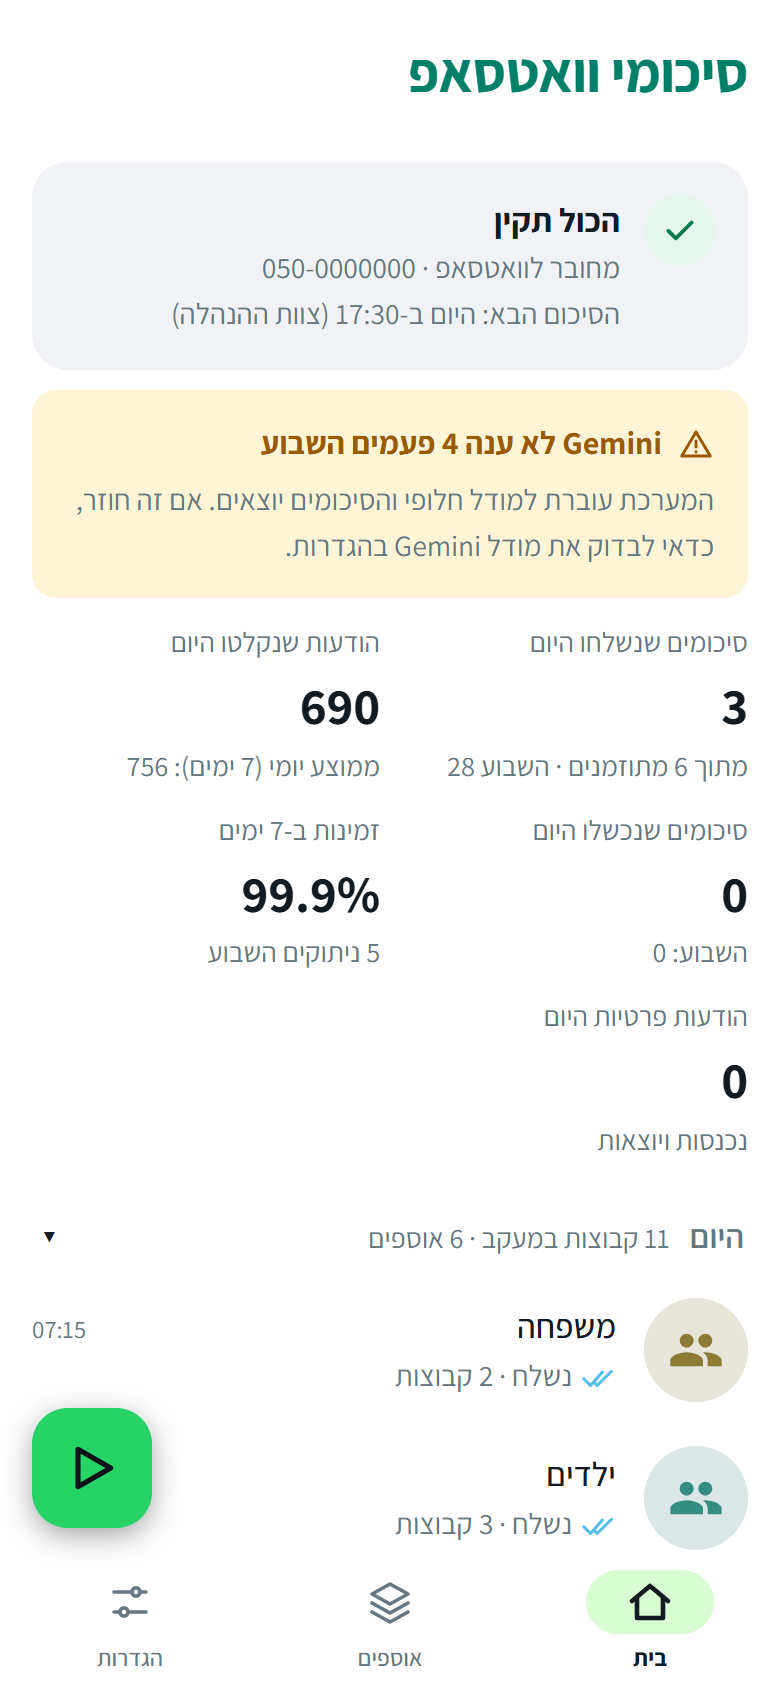
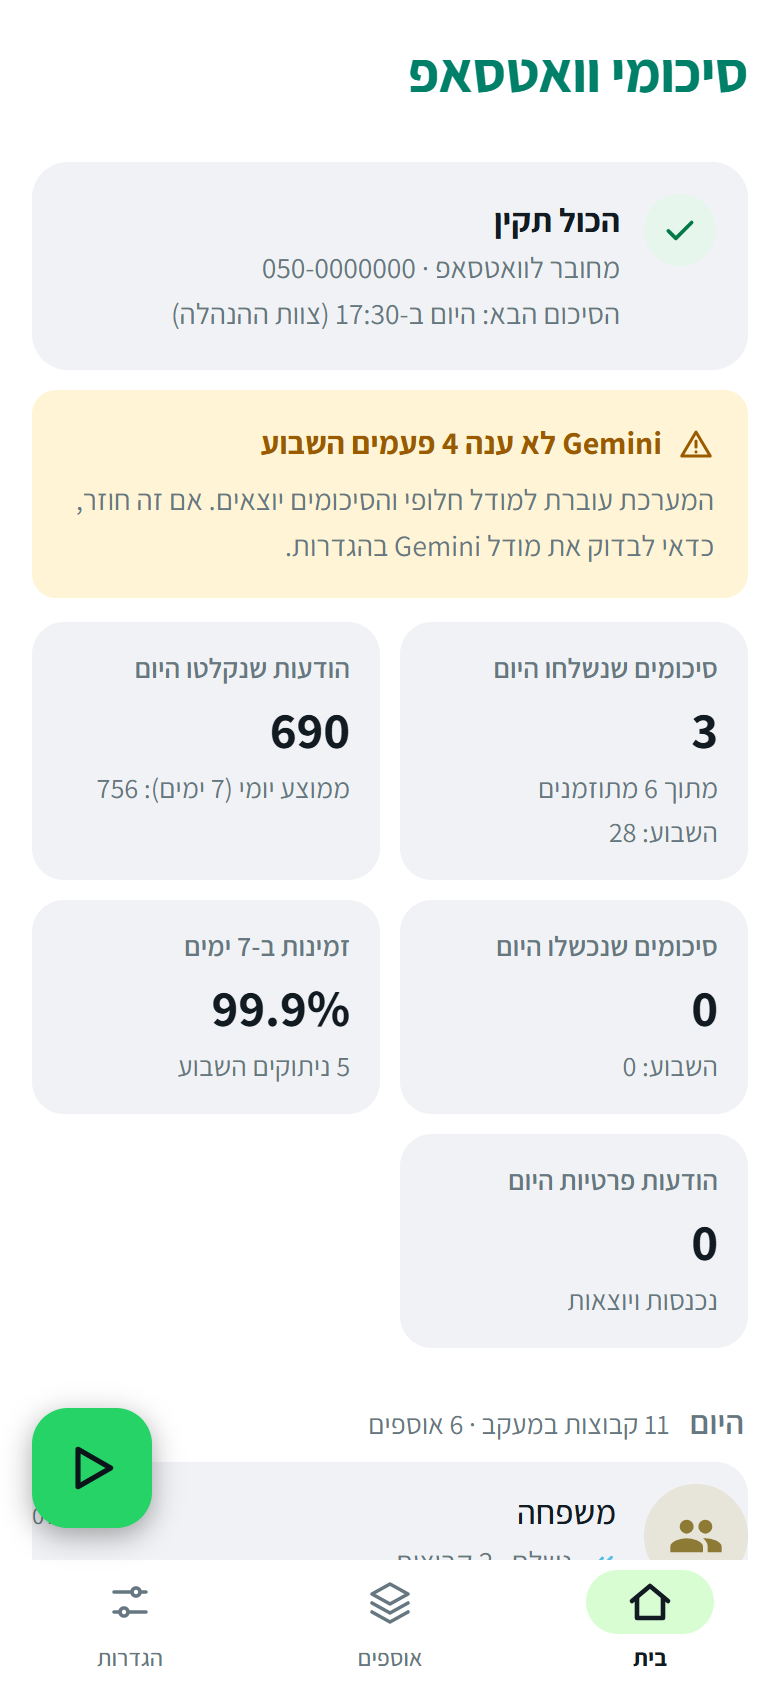
Dashboard: each user sees only their own account; key numbers as cards; thousands separators
- /api/dashboard and /api/device are scoped to one account: the signed-in one by default; a manager can pick
  another account explicitly (?account=), anyone else is always held to their own
- The device card lists only that account's WhatsApp link and drops
- Key numbers are cards (label, value and note together); sections on a card background
- Thousands separators on counts (1,234)
- README and screenshots updated

diff --git a/public/index.html b/public/index.html
@@ -282,7 +282,10 @@
   .kpi-v { font-size: 1.6rem; font-weight: 700; }
   .dash { display: grid; grid-template-columns: minmax(0, 1fr); gap: 14px; }
   .dash > * { min-width: 0; }
-  .kpi { min-width: 0; overflow-wrap: anywhere; }
+  .kpi { min-width: 0; overflow-wrap: anywhere; background: var(--surface-2); border: 1.5px solid transparent; border-radius: 16px; padding: 12px 14px; display: flex; flex-direction: column; gap: 2px; }
+  .kpi > .hint:first-child { font-weight: 600; }
+  .kpi-v { line-height: 1.15; margin: 2px 0; }
+  .dash .fold > .card { background: var(--surface-2); border-radius: 16px; }
   .fold { margin-top: 18px; }
   .fold > summary { list-style: none; cursor: pointer; display: flex; align-items: baseline; gap: 10px; padding: 6px 2px; user-select: none; }
   .fold > summary::-webkit-details-marker { display: none; }
@@ -504,6 +507,8 @@
   /* ---------- helpers ---------- */
   const acc = () => state && state.accounts && state.accounts[cur];
   const num = s => `<span class="num">${esc(s)}</span>`;
+  // thousands separators for counts (1,234)
+  const thou = n => (typeof n === 'number' && isFinite(n) ? n.toLocaleString('en-US') : n);
   const phone = id => { const d = String(id || '').split(':')[0].split('@')[0]; return d.startsWith('972') ? '0' + d.slice(3).replace(/^(\d{2})(\d{7})$/, '$1-$2') : d; };
   const hhmm = ts => new Date(ts).toLocaleTimeString('he-IL', { hour: '2-digit', minute: '2-digit', hour12: false });
   const dayStart = (d = new Date()) => new Date(d.getFullYear(), d.getMonth(), d.getDate()).getTime();
@@ -718,9 +723,9 @@
       const s = stateLine(h.status);
       const nm = h.label.replace(/^אוסף: /, '');
       const detail = h.status === 'sent' && h.text ? `<div class="sum-body">${fmt(h.text)}</div>`
-        : `<div class="sum-body muted">${h.status === 'failed' ? esc(h.error || '') : h.status === 'skipped' ? `נבדקו ${h.messages || 0} הודעות ב-${h.groups || 0} קבוצות ולא אותרו עדכונים מהותיים או דחופים.` : 'לא התקבלו הודעות חדשות בקבוצות אלו, ולכן לא הופק סיכום.'}</div>`;
+        : `<div class="sum-body muted">${h.status === 'failed' ? esc(h.error || '') : h.status === 'skipped' ? `נבדקו ${thou(h.messages || 0)} הודעות ב-${h.groups || 0} קבוצות ולא אותרו עדכונים מהותיים או דחופים.` : 'לא התקבלו הודעות חדשות בקבוצות אלו, ולכן לא הופק סיכום.'}</div>`;
       return `<details class="h"><summary class="chat">${avatar(nm)}<div class="grow"><div class="t1"><span class="nm1">${esc(nm)}</span><span class="tm">${esc(whenLabel(h.ts))}</span></div>
-        <div class="pv ${s.cls}">${s.pre}<span>${esc(s.txt)}${h.messages ? ` · ${h.messages} הודעות` : ''}</span></div></div></summary>${detail}</details>`;
+        <div class="pv ${s.cls}">${s.pre}<span>${esc(s.txt)}${h.messages ? ` · ${thou(h.messages)} הודעות` : ''}</span></div></div></summary>${detail}</details>`;
     }).join('') : '<div class="empty">עדיין אין היסטוריה</div>';
     $('#moreHistory').hidden = hist.length <= histLimit;
 
@@ -837,7 +842,7 @@
     return v >= bad ? 'bad' : v >= warn ? 'warn' : 'ok';
   }
   function kpi(label, value, sub) {
-    return `<div class="card kpi"><div class="hint">${esc(label)}</div><div class="kpi-v">${value}</div>${sub ? `<div class="hint">${sub}</div>` : ''}</div>`;
+    return `<div class="card kpi"><div class="hint">${esc(label)}</div><div class="kpi-v">${thou(value)}</div>${sub ? `<div class="hint">${sub}</div>` : ''}</div>`;
   }
   function bars(vals, days, color, label) {
     const max = Math.max(1, ...vals);
@@ -846,11 +851,11 @@
       const bh = Math.round(v / max * (h - 6));
       return `<rect x="${(i * bw + 2).toFixed(1)}" y="${h - bh}" width="${(bw - 4).toFixed(1)}" height="${bh}" rx="2" fill="${color}"><title>${esc(days[i])}: ${v}</title></rect>`;
     }).join('');
-    return `<div class="hint">${esc(label)} (מקסימום ${max})</div><svg viewBox="0 0 ${w} ${h}" preserveAspectRatio="none" style="width:100%;height:80px" role="img" aria-label="${esc(label)}">${rects}</svg>`;
+    return `<div class="hint">${esc(label)} (מקסימום ${thou(max)})</div><svg viewBox="0 0 ${w} ${h}" preserveAspectRatio="none" style="width:100%;height:80px" role="img" aria-label="${esc(label)}">${rects}</svg>`;
   }
   const STAT_TXT = { sent: 'נשלח', queued: 'ממתין לשליחה', failed: 'נכשל', empty: 'ללא הודעות חדשות', skipped: 'ללא עדכונים דחופים' };
   async function loadDashboard() {
-    const [d, dev] = await Promise.all([api('/api/dashboard'), api('/api/device')]);
+    const [d, dev] = await Promise.all([api(`/api/dashboard?account=${encodeURIComponent(cur || '')}`), api(`/api/device?account=${encodeURIComponent(cur || '')}`)]);
     if (d.error) { $('#dashKpi').innerHTML = `<div class="empty">${esc(d.error)}</div>`; return; }
     renderDashboard(d);
     if (!dev.error) renderDeviceStrip({ ...dev.now, events: dev.events, spark: dev.spark });
@@ -889,10 +894,10 @@
     const warn = c => ` style="border-color:var(--${c}, ${c === 'bad' ? '#c62828' : '#b26a00'})"`;
     const kp = (extra, html) => html.replace('class="card kpi"', 'class="card kpi"' + extra);
     $('#dashKpi').innerHTML = [
-      kpi('סיכומים שנשלחו היום', t.sent.today, `מתוך ${sched} מתוזמנים · השבוע ${t.sent.week}`),
-      kpi('הודעות שנקלטו היום', t.collected.today, `ממוצע יומי (7 ימים): ${avg7}`),
-      kp(t.failed.today > 0 ? warn('bad') : '', kpi('סיכומים שנכשלו היום', t.failed.today, `השבוע: ${t.failed.week}`)),
-      kp(upAvg != null && upAvg < 95 ? warn('warn') : '', kpi('זמינות ב-7 ימים', upAvg == null ? '—' : `${upAvg}%`, upAvg == null ? 'מתחילה להימדד' : `${drops7} ניתוקים השבוע`)),
+      kpi('סיכומים שנשלחו היום', t.sent.today, `מתוך ${sched} מתוזמנים<br>השבוע: ${thou(t.sent.week)}`),
+      kpi('הודעות שנקלטו היום', t.collected.today, `ממוצע יומי (7 ימים): ${thou(avg7)}`),
+      kp(t.failed.today > 0 ? warn('bad') : '', kpi('סיכומים שנכשלו היום', t.failed.today, `השבוע: ${thou(t.failed.week)}`)),
+      kp(upAvg != null && upAvg < 95 ? warn('warn') : '', kpi('זמינות ב-7 ימים', upAvg == null ? '—' : `${upAvg}%`, upAvg == null ? 'מתחילה להימדד' : `${thou(drops7)} ניתוקים השבוע`)),
       hasPeople ? kpi('הודעות פרטיות היום', dm, 'נכנסות ויוצאות') : '',
     ].join('');
 
@@ -908,7 +913,7 @@
     const total = hours.reduce((a, b) => a + b, 0);
     if (total) {
       const peak = hours.indexOf(Math.max(...hours));
-      $('#dashHours').innerHTML = hoursChart(hours) + `<div class="hint" style="margin-top:6px">השעה העמוסה ביותר: <b>${HR(peak)}</b> · ${total} הודעות ב-7 הימים האחרונים.</div>`;
+      $('#dashHours').innerHTML = hoursChart(hours) + `<div class="hint" style="margin-top:6px">השעה העמוסה ביותר: <b>${HR(peak)}</b> · ${thou(total)} הודעות ב-7 הימים האחרונים.</div>`;
     } else $('#dashHours').innerHTML = '<div class="empty">עוד אין מספיק הודעות</div>';
 
     // result per collection
@@ -916,15 +921,15 @@
     const colRows = accs.flatMap(x => x.collections.map(c => {
       const s = x.colStats[c.id] || { runs: 0 };
       const line = s.runs
-        ? `${s.runs} ריצות · ${s.sent} נשלחו${s.quietPct ? ` · ${s.quietPct}% ללא עדכון חשוב` : ''}${s.failed ? ` · ${s.failed} נכשלו` : ''}`
+        ? `${thou(s.runs)} ריצות · ${thou(s.sent)} נשלחו${s.quietPct ? ` · ${s.quietPct}% ללא עדכון חשוב` : ''}${s.failed ? ` · ${s.failed} נכשלו` : ''}`
         : 'עוד לא רץ';
-      const last = s.runs ? `הריצה האחרונה: ${esc(stTxt[s.lastStatus] || s.lastStatus)}${s.lastMessages ? ` · ${s.lastMessages} הודעות` : ''}${s.lastBullets ? ` ← ${s.lastBullets} נקודות` : ''}` : '';
+      const last = s.runs ? `הריצה האחרונה: ${esc(stTxt[s.lastStatus] || s.lastStatus)}${s.lastMessages ? ` · ${thou(s.lastMessages)} הודעות` : ''}${s.lastBullets ? ` ← ${s.lastBullets} נקודות` : ''}` : '';
       return `<div class="dline"><b>${esc(c.name)}</b>${many ? ` <span class="hint">· ${esc(x.name)}</span>` : ''}${c.enabled ? '' : ' <span class="hint">(מושהה)</span>'}<div class="hint">${esc(line)}</div>${last ? `<div class="hint">${last}</div>` : ''}</div>`;
     }));
     $('#dashCols').innerHTML = colRows.length ? colRows.join('') : '<div class="empty">עדיין אין אוספים</div>';
 
     // private chats of people collections
-    const peopleRows = accs.flatMap(x => x.people.map(p => `<div class="dline"><b>${esc(p.name)}</b>${many ? ` <span class="hint">· ${esc(x.name)}</span>` : ''}${p.contacts.map(c => `<div class="hint">${esc(c.name)}: ${c.in} נכנסות · ${c.out} יוצאות</div>`).join('')}</div>`));
+    const peopleRows = accs.flatMap(x => x.people.map(p => `<div class="dline"><b>${esc(p.name)}</b>${many ? ` <span class="hint">· ${esc(x.name)}</span>` : ''}${p.contacts.map(c => `<div class="hint">${esc(c.name)}: ${thou(c.in)} נכנסות · ${thou(c.out)} יוצאות</div>`).join('')}</div>`));
     $('#foldPeople').hidden = !peopleRows.length;
     $('#dashPeople').innerHTML = peopleRows.join('');
 
@@ -942,7 +947,7 @@
 
     $('#dashChart').innerHTML = bars(d.series.sent, d.days, 'var(--accent, #2e7d32)', 'סיכומים שנשלחו ליום')
       + '<div style="height:12px"></div>' + bars(d.series.collected, d.days, 'var(--muted, #888)', 'הודעות שנקלטו ליום');
-    const tops = accs.flatMap(x => x.top.map(g => `<div class="pv">${many ? esc(x.name) + ' · ' : ''}${esc(g.name)} · ${g.n} הודעות</div>`));
+    const tops = accs.flatMap(x => x.top.map(g => `<div class="pv">${many ? esc(x.name) + ' · ' : ''}${esc(g.name)} · ${thou(g.n)} הודעות</div>`));
     $('#dashTop').innerHTML = tops.length ? tops.join('') : '<div class="empty">אין הודעות ב-24 השעות האחרונות</div>';
   }
   function renderDeviceStrip(n) {
@@ -1514,7 +1519,7 @@
     const t = e.target;
     if (t.matches('#ePick input')) { t.checked ? editor.selected.add(t.dataset.jid) : editor.selected.delete(t.dataset.jid); $('#eCount').textContent = editor.selected.size; }
     else if (t.id === 'extraPhone') { await api(`/api/accounts/${cur}/delivery-settings`, 'POST', { customPhone: t.value }); toast('ההגדרה נשמרה בהצלחה'); load(true); }
-    else if (t.id === 'accSel') { cur = t.value; store('cur', cur); renderAll(); }
+    else if (t.id === 'accSel') { cur = t.value; store('cur', cur); renderAll(); if (view === 'home') loadDashboard().catch(() => {}); }
     else if (t.id === 'modelSel') {
       const d = await api('/api/gemini/model', 'POST', { model: t.value });
       $('#modelRes').textContent = '';

diff --git a/server.js b/server.js
@@ -1435,13 +1435,21 @@ app.get('/api/auth/me', (req, res) => {
 // API: Device health (manager only): a fresh reading, plus the last 24 hours of samples and events.
 app.get('/api/device', async (req, res) => {
   if (!req.me.manager) return res.status(403).json({ error: 'רק למנהל' });
-  const now = { ...(await readDevice()), wa: waStatuses() };
+  const accId = dashAccountId(req);
+  const now = { ...(await readDevice()), wa: Object.fromEntries(Object.entries(waStatuses()).filter(([id]) => id === accId)) };
   const dayAgo = Date.now() - 24 * 3600 * 1000;
   const recent = deviceHistory.samples.filter(x => x.t >= dayAgo);
-  res.json({ now, spark: { tempC: downsample(recent, 'tempC'), cpuPct: downsample(recent, 'cpuPct'), memUsedPct: downsample(recent, 'memUsedPct'), wifi: downsample(recent, 'wifi') }, events: deviceHistory.events.filter(e => e.t >= dayAgo) });
+  res.json({ now, spark: { tempC: downsample(recent, 'tempC'), cpuPct: downsample(recent, 'cpuPct'), memUsedPct: downsample(recent, 'memUsedPct'), wifi: downsample(recent, 'wifi') }, events: deviceHistory.events.filter(e => e.t >= dayAgo && (!e.account || e.account === accId)) });
 });
 
-// API: Dashboard. Whole system for a manager; a plain account sees only itself.
+// API: Dashboard. Every user sees only their own account. A manager can look at another account only by choosing it
+// explicitly (?account=); the default is the account they signed in with.
+function dashAccountId(req) {
+  const want = String(req.query.account || '');
+  if (want && config.accounts[want] && (req.me.manager || want === req.me.accountId)) return want;
+  if (req.me.accountId && config.accounts[req.me.accountId]) return req.me.accountId;
+  return Object.keys(config.accounts)[0] || null;
+}
 function topGroups(accountId, since) {
   const counts = {};
   try {
@@ -1468,7 +1476,7 @@ function parsedMessages(accountId) {
   return list;
 }
 app.get('/api/dashboard', (req, res) => {
-  const ids = Object.keys(config.accounts).filter(id => req.me.manager || id === req.me.accountId);
+  const ids = [dashAccountId(req)].filter(Boolean);
   const days = lastDays(14);
   const today = dayKey();
   const dayAgo = Date.now() - 24 * 3600 * 1000;

diff --git a/README.en.md b/README.en.md
@@ -196,7 +196,7 @@ Capture starts only when the link is up and the group is monitored. Earlier mess
 - Scheduled summaries cover the **previous calendar day**; "Summarize now" covers the last 24 hours.
 - "Nothing important/urgent" is recorded in the history and nothing is sent.
 - **People collections:** "Collections", "+", "People collection": a name, an optional time, up to 10 contacts (search by name or type a number) and an optional prompt. The summary covers your **private chats** with them in the last 24 hours, in both directions, one section per person. Only chats with the people you picked are stored, and only from the moment you add them; they are kept for 2 days (group messages: 7 days), so the first summary only contains messages since then. The chat text is **sent to Gemini**, like group text. Contacts that WhatsApp identifies by an internal id (`@lid`) are stored only if WhatsApp also provides their phone number.
-- **The home dashboard**, most important first; every section folds and unfolds and the state is remembered on the device. It is built for phones. It shows the status and anything that needs attention (a disconnected account, a failed summary, queued messages, Gemini not answering); today's numbers (summaries sent out of those scheduled, messages captured against the 7-day average, failures, 7-day availability); when the groups are active (24-hour chart over the last 7 days) and the busiest groups; results per collection (runs, how often nothing important came up, messages in and bullets out for the last run); the private chats of people collections; groups worth a look (monitored groups silent for 7+ days, and unmonitored groups that wrote in the last 48 hours); 14-day trends and connection reliability (availability is counted from the minutes the account was connected, and starts accumulating when this version is installed); and, for the manager only, the device: temperature, CPU, memory, Wi-Fi, free space, on a Raspberry Pi also power, each with a 24-hour chart. Readings are read-only; a value the system cannot provide is not shown.
+- **The home dashboard** shows only the signed-in user's own account; a manager sees their own by default and can look at another account only by choosing it in the account selector. It is ordered most important first; every section folds and unfolds and the state is remembered on the device. It is built for phones. It shows the status and anything that needs attention (a disconnected account, a failed summary, queued messages, Gemini not answering); today's numbers (summaries sent out of those scheduled, messages captured against the 7-day average, failures, 7-day availability); when the groups are active (24-hour chart over the last 7 days) and the busiest groups; results per collection (runs, how often nothing important came up, messages in and bullets out for the last run); the private chats of people collections; groups worth a look (monitored groups silent for 7+ days, and unmonitored groups that wrote in the last 48 hours); 14-day trends and connection reliability (availability is counted from the minutes the account was connected, and starts accumulating when this version is installed); and, for the manager only, the device: temperature, CPU, memory, Wi-Fi, free space, on a Raspberry Pi also power, each with a 24-hour chart. Readings are read-only; a value the system cannot provide is not shown.
 - **Auto-reply:** Settings, "Auto-reply". Private chats only, new messages only, at most 20 replies per hour, once per person per cool-down. AI personalisation is off by default; when on, the sender's first name and message are sent to Gemini and any failure falls back to your own text.
 - **Phone alerts:** install the free [ntfy](https://ntfy.sh) app, subscribe to **exactly** the topic name shown in Settings, press "Send test". An alert goes out when an account stays disconnected for 5 minutes or more, when capture stalls, when the server is overloaded and when a summary fails; short drops that reconnect by themselves are only logged.
 - **Remote access:** do not expose the dashboard to the internet. Use Tailscale on the server and your phone.

diff --git a/README.md b/README.md
@@ -240,7 +240,7 @@ nssm start WhatsAppSummarizer
 
 ### הדשבורד בבית
 
-מסך הבית הוא דשבורד, מהחשוב אל הפחות חשוב. כל אזור נפתח ונסגר, והמצב נשמר במכשיר. הכול מותאם לטלפון.
+מסך הבית הוא דשבורד, מהחשוב אל הפחות חשוב. כל אזור נפתח ונסגר, והמצב נשמר במכשיר. הכול מותאם לטלפון. **כל משתמש רואה רק את הנתונים של החשבון שלו.** מנהל רואה את שלו כברירת מחדל, ויכול לעבור לחשבון אחר רק בבחירה מפורשת בבורר החשבון.
 
 - **מצב והתראות:** "הכול תקין", או מה דורש טיפול: חשבון מנותק, סיכום שנכשל, הודעות שממתינות לשליחה, Gemini שלא ענה.
 - **מספרים עיקריים:** סיכומים שנשלחו היום מתוך המתוזמנים, הודעות שנקלטו מול ממוצע 7 הימים, כשלים, וזמינות החיבור ב-7 ימים.
